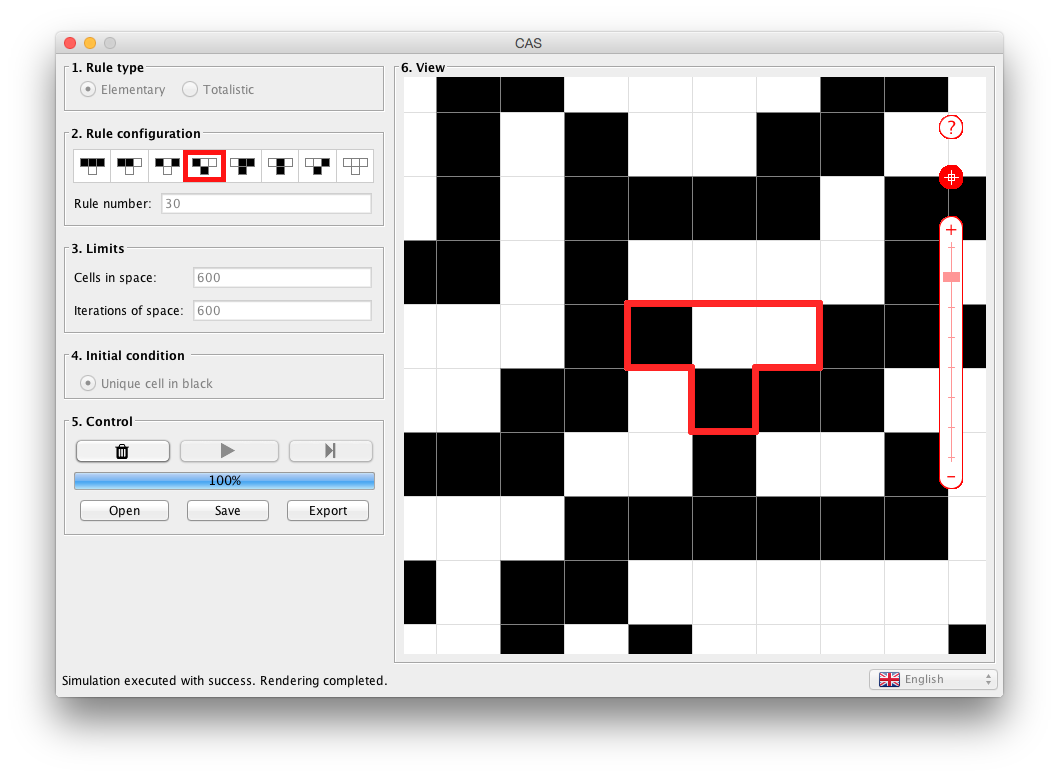
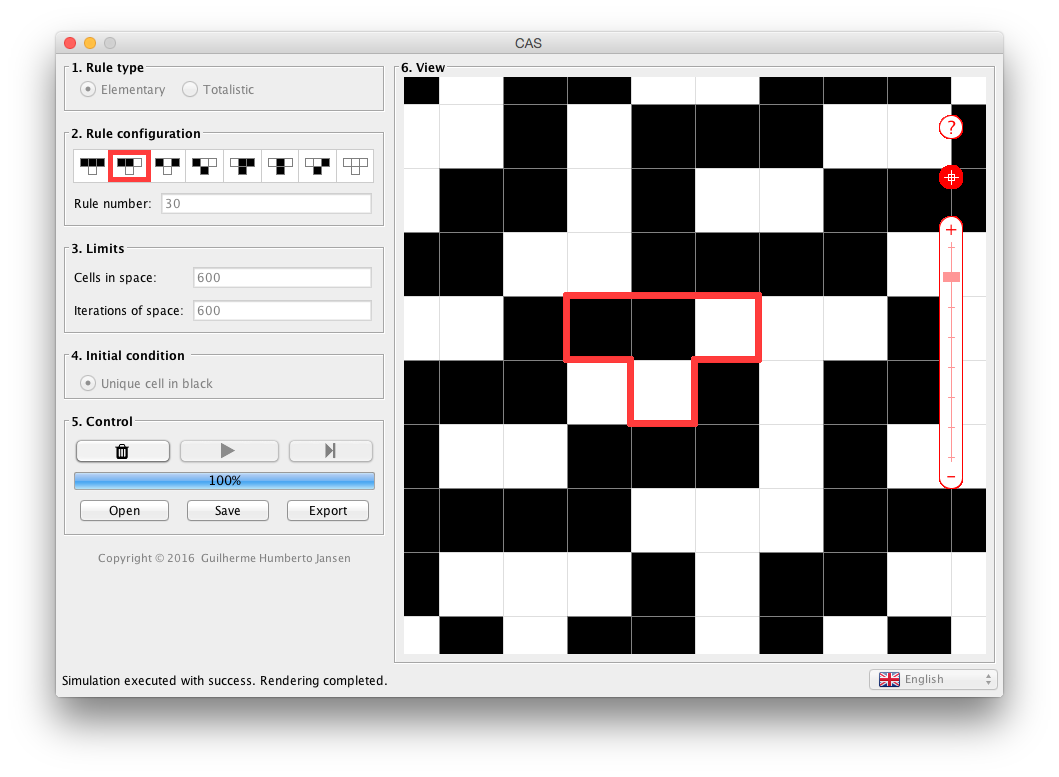
Release 1.0.0.

Changed region(s): [[0.3739, 0.0927, 0.9348, 0.8649], [0.0935, 0.1853, 0.2181, 0.2471], [0.0935, 0.7104, 0.3116, 0.7413]]

diff --git a/cas-ui-desktop/src/main/java/com/ghjansen/cas/ui/desktop/swing/Main.java b/cas-ui-desktop/src/main/java/com/ghjansen/cas/ui/desktop/swing/Main.java
@@ -60,6 +60,7 @@ import com.ghjansen.cas.ui.desktop.manager.EventManager;
 import com.ghjansen.cas.ui.desktop.processing.SimulationViewProcessing;
 import com.ghjansen.cas.ui.desktop.processing.TransitionsViewProcessing;
 import com.ghjansen.cas.ui.desktop.processing.ViewCommonsProcessing;
+import javax.swing.SwingConstants;
 
 /**
  * @author Guilherme Humberto Jansen (contact.ghjansen@gmail.com)
@@ -611,6 +612,13 @@ public class Main {
 			}
 		});
 		pnlUnidimensional.add(langCombo);
+		
+		JLabel lblCopiright = new JLabel("Copyright \u00a9 2016  Guilherme Humberto Jansen");
+		lblCopiright.setForeground(Color.GRAY);
+		lblCopiright.setFont(new Font("Lucida Grande", Font.PLAIN, 11));
+		lblCopiright.setHorizontalAlignment(SwingConstants.CENTER);
+		lblCopiright.setBounds(6, 496, 325, 16);
+		pnlUnidimensional.add(lblCopiright);
 	}
 	
 	public void setStatus(String key, String info){
